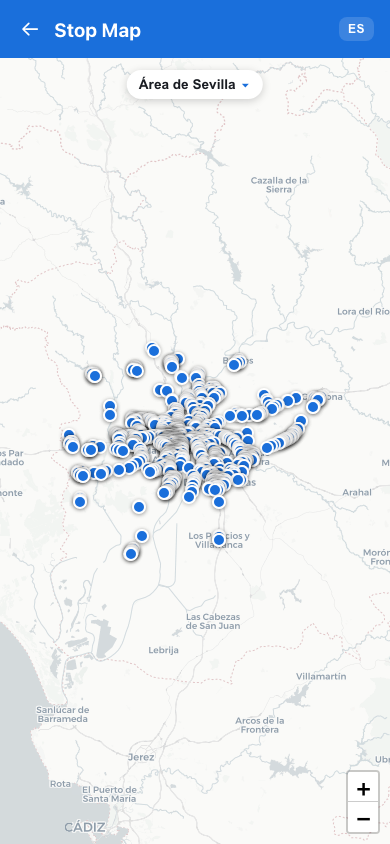
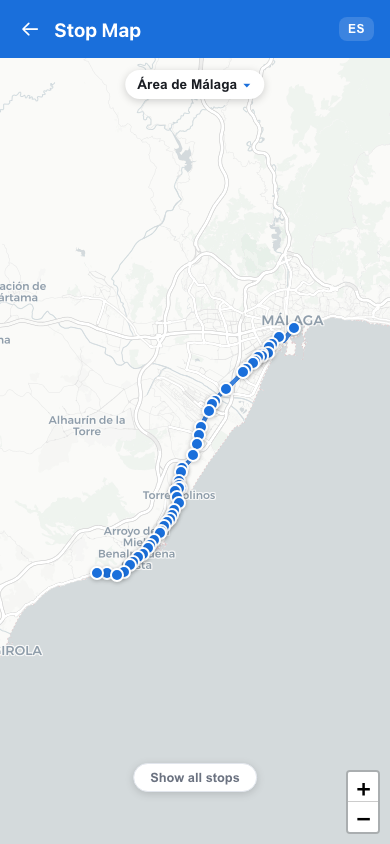
Update README and fix polyline screenshot
- README: add journey planner, line timetables, settings pages; add
  versioning section; update project structure, test commands, and
  link to wiki instead of local docs/api.md; add confetti to features
- polyline.png: replace duplicate map screenshot with actual route
  polyline view (M-110 Málaga coast line)

diff --git a/README.md b/README.md
@@ -1,6 +1,6 @@
 # CTAN Bus Tracker
 
-A progressive web app for real-time bus departures, route planning, timetables, and an interactive stop map across the nine public transport consortiums of Andalusia, Spain.
+A progressive web app for real-time bus departures, route planning, journey planning, timetables, and an interactive stop map across the nine public transport consortiums of Andalusia, Spain.
 
 **[🚌 Live demo → hendrikbgr.github.io/andalusia-public-transport-app/home.html](https://hendrikbgr.github.io/andalusia-public-transport-app/home.html)**
 
@@ -25,11 +25,14 @@ Built with vanilla JavaScript, Leaflet.js, and the public [CTAN API](https://api
 | Page | Description |
 |------|-------------|
 | **Home** (`home.html`) | Dashboard with quick access to all features; shows saved stops for one-tap access |
-| **Live Departures** (`station.html`) | Real-time bus board, auto-refreshes every 30 s; save stops, share via QR code, show stop on map |
-| **Route Detail** (`route.html`) | All stops on a line with direction tabs; service disruption alerts; link to full timetable and map |
-| **Route Planner** (`planner.html`) | Find buses between two towns; Today / Tomorrow / Pick date selector; shows all direct departures for the day |
-| **Stop Map** (`map.html`) | Interactive Leaflet map of all stops in a region; tap a stop for a departures link; draws route polylines with stop filtering |
+| **Live Departures** (`station.html`) | Real-time bus board, auto-refreshes every 30 s without flicker; save stops, share via QR code, show stop on map |
+| **Route Detail** (`route.html`) | All stops on a line with direction tabs; service disruption alerts; links to full timetable and polyline map |
+| **Route Planner** (`planner.html`) | Find direct buses between two towns; Today / Tomorrow / Pick date selector; full day timetable below results |
+| **Journey Planner** (`journey.html`) | Multi-leg journey planning with transfers; out-of-network fallback; per-leg map links |
+| **Line Timetables** (`linetimetable.html`) | Search any line by code or name, then view its complete scheduled timetable |
 | **Full Timetable** (`timetable.html`) | Complete scrollable timetable grid for any line; tabs for each day type (weekday / Saturday / Sunday) |
+| **Stop Map** (`map.html`) | Interactive Leaflet map of all stops in a region; tap a stop for departures; draws route polylines |
+| **Settings** (`settings.html`) | Language, default region, default date mode, saved stops management, cache clear, install guide |
 
 ### Additional features
 - 🌍 **English / Spanish** language toggle, persisted via cookie
@@ -38,34 +41,41 @@ Built with vanilla JavaScript, Leaflet.js, and the public [CTAN API](https://api
 - 📲 **PWA** — installable on iOS/Android; offline shell cache via service worker
 - 🗺 **Route polyline** — draw a line's full route on the map with only its stops highlighted; toggle all stops on/off
 - ⚠ **Disruption alerts** — expandable alert cards on route pages when a line has active notices
+- 🎉 **Update confetti** — confetti burst after accepting an app update via the update banner
 
 ---
 
 ## Project structure
 
 ```
-├── home.html          # Home dashboard
-├── index.html         # Stop selector (region → stop)
-├── station.html       # Live departures board
-├── route.html         # Route stops detail
-├── planner.html       # Route planner (town-to-town)
-├── map.html           # Interactive Leaflet stop map
-├── timetable.html     # Full line timetable grid
+├── home.html              # Home dashboard
+├── index.html             # Stop selector (region → stop)
+├── station.html           # Live departures board
+├── route.html             # Route stops detail
+├── planner.html           # Route planner (direct, town-to-town)
+├── journey.html           # Journey planner (multi-leg with transfers)
+├── linetimetable.html     # Line search + timetable
+├── timetable.html         # Full line timetable grid
+├── map.html               # Interactive Leaflet stop map
+├── settings.html          # App settings
 │
-├── manifest.json      # PWA manifest
-├── sw.js              # Service worker (offline shell)
+├── manifest.json          # PWA manifest
+├── sw.js                  # Service worker (offline shell)
 │
 ├── src/
-│   ├── style.css      # All styles
+│   ├── style.css          # All styles
 │   └── js/
-│       ├── i18n.js    # Translations, cookies, language helpers
-│       ├── app.js     # Stop selector logic
-│       ├── home.js    # Home page logic
-│       ├── station.js # Live departures + auto-refresh + QR + save
-│       ├── route.js   # Route stops + direction tabs + disruptions
-│       ├── planner.js # Route planner + date picker + direct connections
-│       ├── map.js     # Leaflet map + polyline + location dot
-│       └── timetable.js # Full timetable grid
+│       ├── i18n.js        # Translations, cookies, language helpers
+│       ├── app.js         # Stop selector logic
+│       ├── home.js        # Home page logic + SW update banner + confetti
+│       ├── station.js     # Live departures + auto-refresh + QR + save
+│       ├── route.js       # Route stops + direction tabs + disruptions
+│       ├── planner.js     # Route planner + date picker + direct connections
+│       ├── journey.js     # Journey planner + transfers + out-of-network
+│       ├── linetimetable.js # Line search + timetable entry point
+│       ├── map.js         # Leaflet map + polyline + location dot
+│       ├── timetable.js   # Full timetable grid
+│       └── settings.js    # Settings page logic
 │
 ├── tests/
 │   ├── conftest.py        # Shared fixtures (server, browser, constants)
@@ -76,12 +86,15 @@ Built with vanilla JavaScript, Leaflet.js, and the public [CTAN API](https://api
 │   ├── test_planner.py    # Route planner UI tests
 │   └── test_map.py        # Stop map UI tests
 │
-├── docs/
-│   ├── api.md             # CTAN API endpoint reference
-│   ├── architecture.md    # App architecture and design decisions
-│   └── TEST_PLAN.md       # Manual test plan with real API data
+├── .github/workflows/
+│   ├── ci.yml             # Run tests on push + PRs
+│   ├── deploy.yml         # Deploy to GitHub Pages on push to main
+│   ├── bump-version.yml   # Auto-bump version badge, sw.js cache name, and ?v= query strings
+│   └── sw-cache-check.yml # Warn on PR if sw.js wasn't updated alongside HTML/JS changes
 │
-└── run_tests.py       # Test runner (auto-installs deps)
+└── docs/
+    ├── screenshots/       # README screenshots
+    └── api.md             # CTAN API endpoint reference
 ```
 
 ---
@@ -100,19 +113,34 @@ python3 -m http.server 8787
 ## Running tests
 
 ```bash
-# Run all tests (auto-installs deps on first run)
-python3 run_tests.py
+# Install deps
+pip install -r requirements.txt
+python -m playwright install chromium --with-deps
+
+# Run all tests
+pytest tests/ -v
 
 # Run a specific suite
-python3 run_tests.py api          # CTAN API contract
-python3 run_tests.py home         # Home page
-python3 run_tests.py navigation   # Stop selector + back buttons
-python3 run_tests.py timetable    # Live departures
-python3 run_tests.py planner      # Route planner
-python3 run_tests.py map          # Stop map
+pytest tests/test_api.py -v        # CTAN API contract
+pytest tests/test_home.py -v       # Home page
+pytest tests/test_navigation.py -v # Stop selector + back buttons
+pytest tests/test_planner.py -v    # Route planner
+pytest tests/test_map.py -v        # Stop map
+
+# Skip tests that hit the live API
+pytest tests/ -m "not network" -v
 ```
 
-Tests use **pytest** + **Playwright** (headless Chromium). A `.venv` is created automatically on first run.
+Tests use **pytest** + **Playwright** (headless Chromium).
+
+---
+
+## Versioning
+
+Version bumping is fully automated — never update version numbers manually:
+
+- The **app version badge** (`vN` in `home.html`) and **SW cache name** (`ctan-shell-vN` in `sw.js`) are bumped automatically by the `bump-version.yml` workflow on every push to `main`
+- The **per-file `?v=N` cache-busting query strings** on `<script>` and `<link>` tags are also bumped automatically for any JS or CSS file changed in the same commit
 
 ---
 
@@ -136,7 +164,15 @@ All data comes from the public CTAN API:
 https://api.ctan.es/v1/Consorcios
 ```
 
-See [`docs/api.md`](docs/api.md) for a full endpoint reference.
+See the [wiki API reference](https://github.com/hendrikbgr/andalusia-public-transport-app/wiki/API-Reference) for a full endpoint reference.
+
+---
+
+## Wiki
+
+Full developer documentation: **[github.com/hendrikbgr/andalusia-public-transport-app/wiki](https://github.com/hendrikbgr/andalusia-public-transport-app/wiki)**
+
+Covers architecture, all pages, JS modules, API, URL parameters, service worker, testing, and CI/CD.
 
 ---
 
